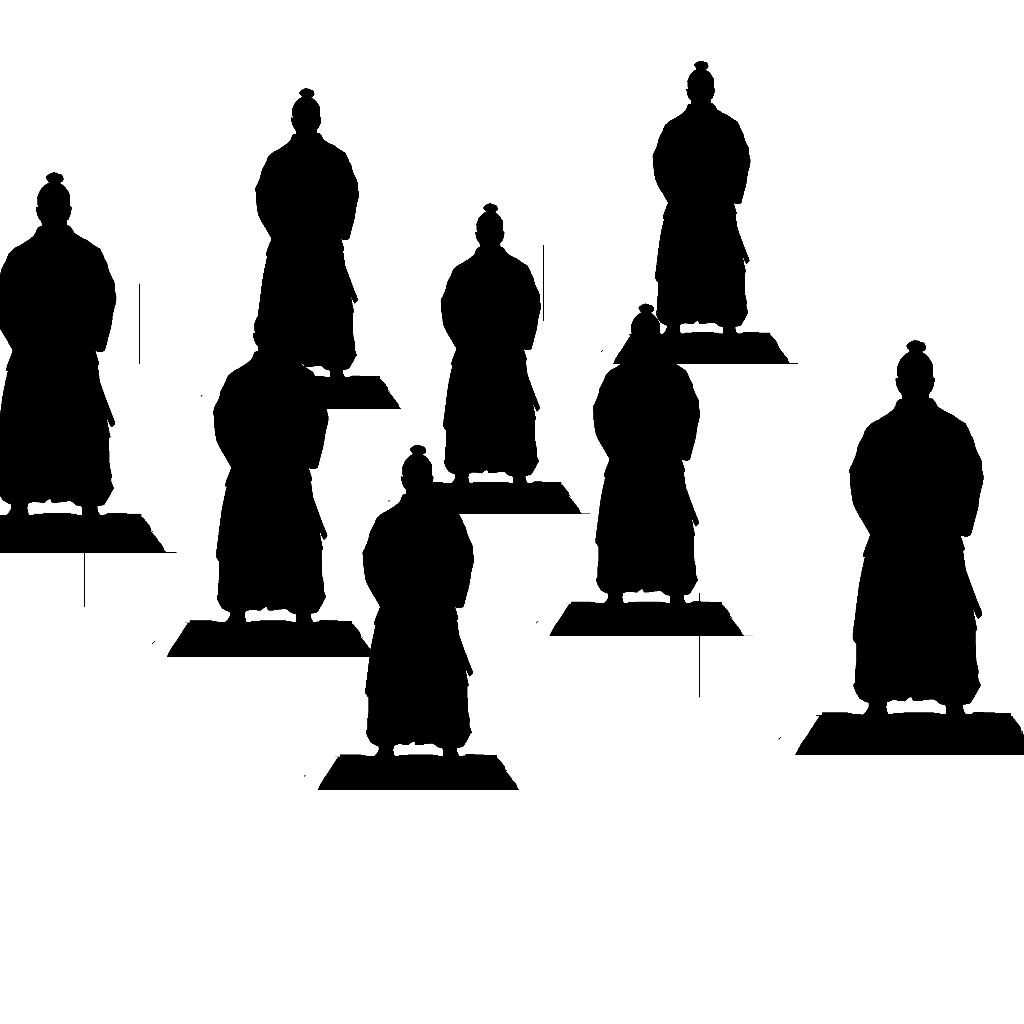
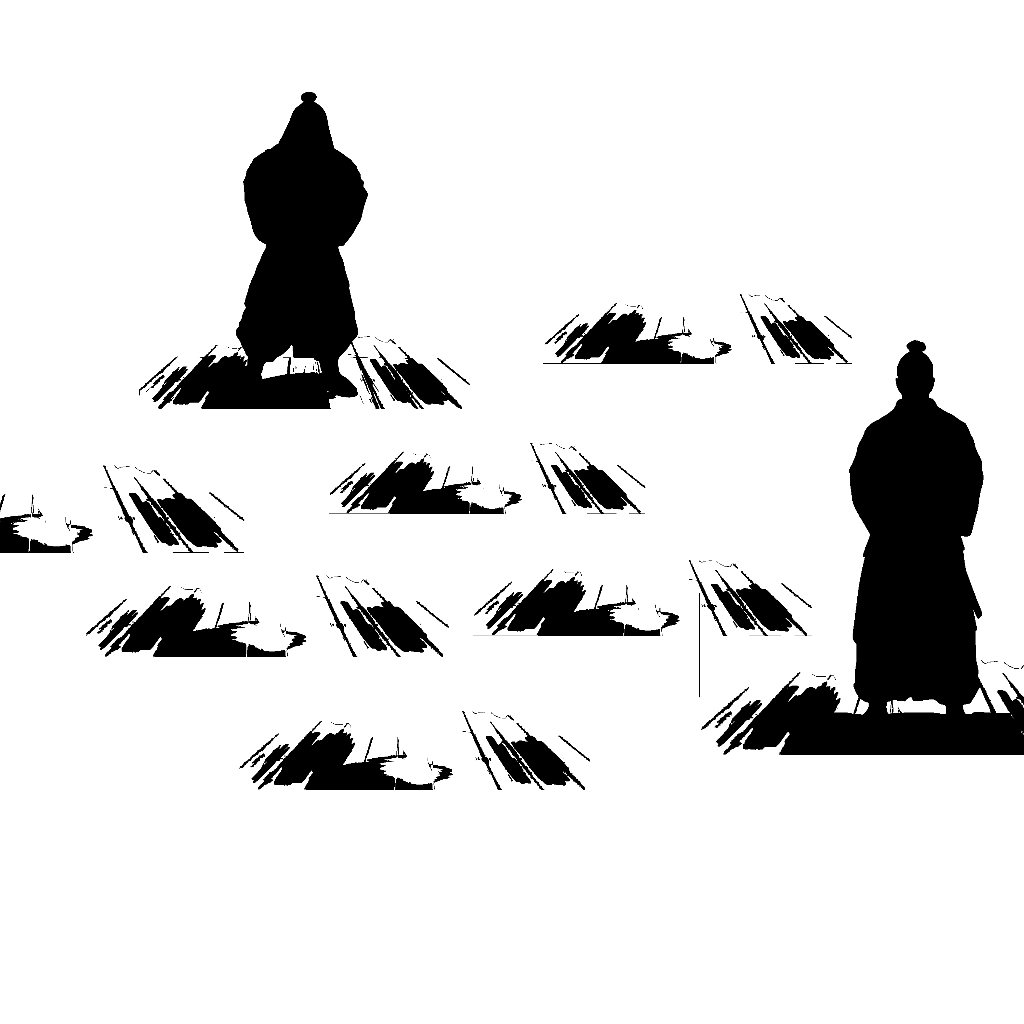
Getting closer

diff --git a/docs/game/game.js b/docs/game/game.js
@@ -216,11 +216,10 @@ var gameSystem_prototype = {
     sourceImageFor(obj) {
         var key = obj.type;
         //key = 'player';
-        if (this.drawMode == 'mask') {
-            key = 'player';
-        }
-        if (this.drawMode == 'fore') {
-            key = 'player';
+        if ((this.drawMode == 'mask')
+            || (this.drawMode == 'fore'))
+        {
+            //key = 'player';
         }
         if (key == 'entity') {
             key += "_" + obj.entityType;
